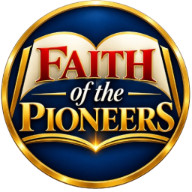
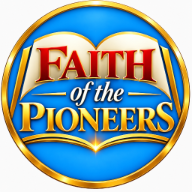
add the fix made

diff --git a/components/admin/mailing-manager.tsx b/components/admin/mailing-manager.tsx
@@ -435,7 +435,7 @@ export default function MailingManager() {
                 {editingScheduleId && <button type="button" className="text-button" onClick={() => { setEditingScheduleId(null); setCampaign({ ...initialCampaign, letterTitle: tab === "meeting" ? "Online meeting reminder" : "A letter for your journey" }); setPreheaderEdited(false); setAudienceMode("all"); setRecipientIds([]); setAudienceSince(""); setHistorySourceId(""); setNotice(""); }}>Cancel editing</button>}
                 <button className="outline-button" disabled={busy || (audienceMode === "selected" && recipientIds.length === 0)}>{busy ? "Saving…" : editingScheduleId ? "Update schedule" : "Schedule email"}</button>
               </form>
-              <aside className="mailing-template-preview"><span className="eyebrow">TEMPLATE PREVIEW</span><div className="mailing-template-card"><header><img src="/images/logo.jpeg" alt="Faith of the Pioneers"/><strong>FAITH OF THE PIONEERS</strong><span>{campaign.letterTitle || "Your letter header"}</span></header><section><small>{greeting} · {previewPreheader || "Your preview text appears here."}</small><p className="mailing-preview-greeting">{greetingPreview}</p><h3>{campaign.headline || "Your headline appears here"}</h3>{campaign.body ? <div className="mailing-preview-body" dangerouslySetInnerHTML={{ __html: inlineVideoLinks(sanitizeRichText(campaign.body)) }}/>: <p>Your email message preview will appear here as you write.</p>}{campaign.buttonUrl && <span className="mailing-preview-button">{campaign.buttonLabel || (tab === "meeting" ? "Join the meeting" : "Learn more")}</span>}{!inlineVideoUrl && (previewVideo ? <img src={"https://img.youtube.com/vi/" + previewVideo + "/hqdefault.jpg"} alt="Featured video thumbnail"/> : effectiveVideoUrl && <div className="mailing-generic-video">▶ <span>Featured video preview</span></div>)}</section></div></aside>
+              <aside className="mailing-template-preview"><span className="eyebrow">TEMPLATE PREVIEW</span><div className="mailing-template-card"><header><img src="/images/foplogo.png" alt="Faith of the Pioneers"/><strong>FAITH OF THE PIONEERS</strong><span>{campaign.letterTitle || "Your letter header"}</span></header><section><small>{greeting} · {previewPreheader || "Your preview text appears here."}</small><p className="mailing-preview-greeting">{greetingPreview}</p><h3>{campaign.headline || "Your headline appears here"}</h3>{campaign.body ? <div className="mailing-preview-body" dangerouslySetInnerHTML={{ __html: inlineVideoLinks(sanitizeRichText(campaign.body)) }}/>: <p>Your email message preview will appear here as you write.</p>}{campaign.buttonUrl && <span className="mailing-preview-button">{campaign.buttonLabel || (tab === "meeting" ? "Join the meeting" : "Learn more")}</span>}{!inlineVideoUrl && (previewVideo ? <img src={"https://img.youtube.com/vi/" + previewVideo + "/hqdefault.jpg"} alt="Featured video thumbnail"/> : effectiveVideoUrl && <div className="mailing-generic-video">▶ <span>Featured video preview</span></div>)}</section></div></aside>
             </div>
           </section>
           <section className="mailing-history" id="mailing-schedules">

diff --git a/lib/mailing-server.ts b/lib/mailing-server.ts
@@ -313,7 +313,7 @@ export async function deliverCampaign(
     const results = await Promise.all(group.map(async (recipient) => {
       const unsubscribe = campaign.kind === "newsletter" ? unsubscribeLink(recipient.id, baseUrl) : "";
       const oneClickUnsubscribe = campaign.kind === "newsletter" ? oneClickUnsubscribeLink(recipient.id, baseUrl) : "";
-      const content = renderCampaign(campaign, unsubscribe, `${baseUrl.replace(/\/$/, "")}/images/logo.jpeg`, {
+      const content = renderCampaign(campaign, unsubscribe, `${baseUrl.replace(/\/$/, "")}/images/foplogo.png`, {
         ...options,
         recipientName: recipient.name,
       });

diff --git a/app/(public)/signin/page.tsx b/app/(public)/signin/page.tsx
@@ -116,7 +116,7 @@ return (
 <main className="auth-page">
 <section className="auth-card">
 <Link href="/" className="brand" aria-label="POOF home">
-<Image src="/images/logo.jpeg"alt="Pioneers of Our Faith logo" width={100}height={100} priority/>
+<Image src="/images/foplogo.png"alt="Pioneers of Our Faith logo" width={100}height={100} priority/>
 </Link>
 
     <div className="welcome-heading">

diff --git a/components/home/public-header.tsx b/components/home/public-header.tsx
@@ -316,7 +316,7 @@ export default function PublicHeader({
             href="/"
             aria-label="Faith of the Pioneers home"
           >
-            <img src="/images/logo.jpeg" alt="" />
+            <img src="/images/foplogo.png" alt="" />
             <span className="zm-brand-text">
               <span>Faith</span>
               <span>of the Pioneers</span>
